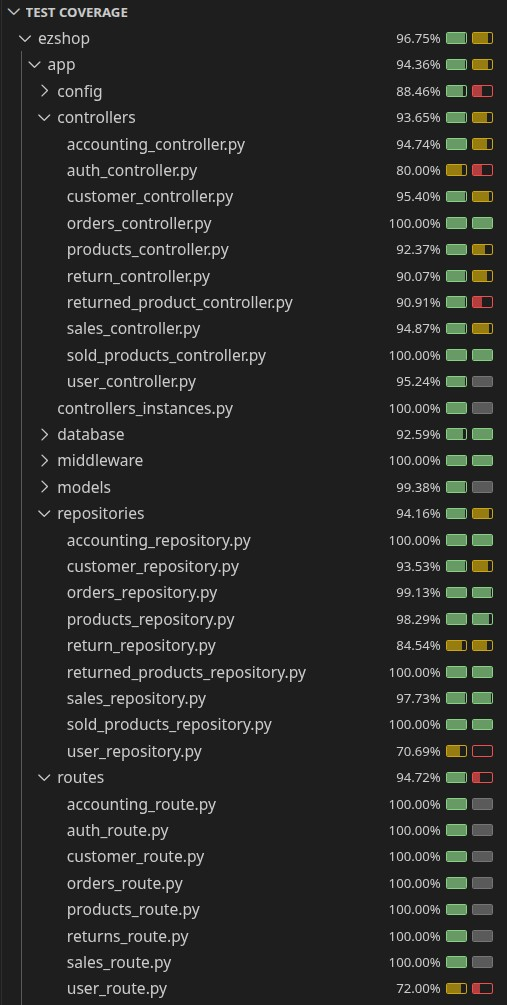
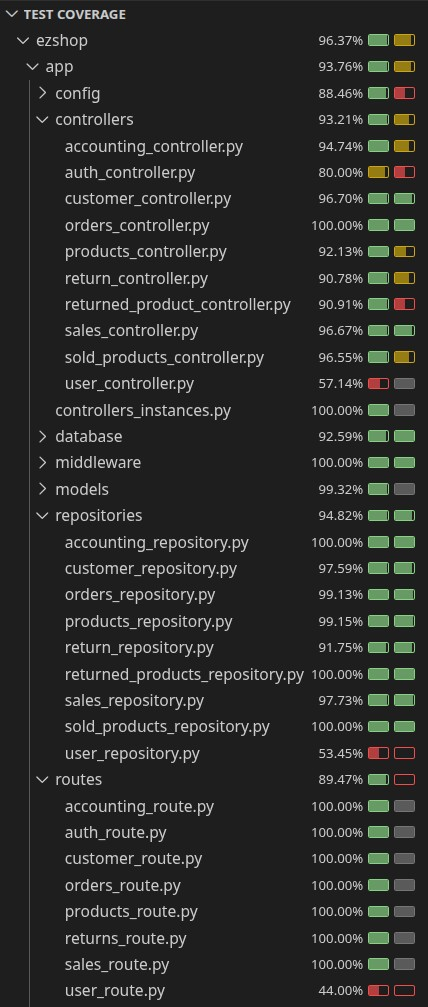
doc: updated estimation and test report document with instructions given by the teacher in issue#53

Changed region(s): [[0.0, 0.0, 0.6986, 1.0], [0.729, 0.0308, 0.972, 1.0]]

diff --git a/doc/TestReport.md b/doc/TestReport.md
@@ -516,95 +516,59 @@ Partitioning
 
 ## Coverage white box
 
+Note: this test session only executed tests written by the student group and not evaluation tests provided by the teacher. As such, coverage for classes not under our tasks is remarkably low (i.e. authentication and user management)
+
 ![test coverage](media/test-coverage.jpg)
 
 Detailed test execution is the following:
 
-- platform linux -- Python 3.13.11, pytest-9.0.2, pluggy-1.6.0
-- rootdir: /home/User/ezshop
+- platform linux -- Python 3.14.2, pytest-9.0.2, pluggy-1.6.0
+- rootdir: /home/user/ezshop
 - configfile: pytest.ini
-- plugins: cov-7.0.0, anyio-4.12.0, asyncio-1.3.0
+- plugins: cov-7.0.0, anyio-4.12.1, asyncio-1.3.0
 - asyncio: mode=Mode.AUTO, debug=False, asyncio_default_fixture_loop_scope=None, asyncio_default_test_loop_scope=function
-- collected 656 items
+- collected 646 items
 
-|Name                                                    |Stmts  | Miss | Cover |
-| :----------------------------------------------------: | :----:| :--: | :---: |
-|app/config/config.py                                    |   24  |    2 |  92%  |
-|app/controllers/accounting_controller.py                |   15  |    0 | 100%  |
-|app/controllers/auth_controller.py                      |   18  |    3 |  83%  |
-|app/controllers/customer_controller.py                  |   69  |    2 |  97%  |
-|app/controllers/orders_controller.py                    |   45  |    0 | 100%  |
-|app/controllers/products_controller.py                  |  103  |    0 | 100%  |
-|app/controllers/return_controller.py                    |  109  |    6 |  94%  |
-|app/controllers/returned_product_controller.py          |   40  |    2 |  95%  |
-|app/controllers/sales_controller.py                     |  147  |    5 |  97%  |
-|app/controllers/sold_products_controller.py             |   47  |    0 | 100%  |
-|app/controllers/user_controller.py                      |   21  |    1 |  95%  |
-|app/controllers_instances.py                            |   16  |    0 | 100%  |
-|app/database/database.py                                |   25  |    2 |  92%  |
-|app/middleware/auth_middleware.py                       |   11  |    0 | 100%  |
-|app/middleware/error_middleware.py                      |    7  |    0 | 100%  |
-|app/models/DAO/__init__.py                              |    0  |    0 | 100%  |
-|app/models/DAO/accounting_dao.py                        |    6  |    0 | 100%  |
-|app/models/DAO/card_dao.py                              |    8  |    0 | 100%  |
-|app/models/DAO/customer_dao.py                          |    9  |    0 | 100%  |
-|app/models/DAO/order_dao.py                             |   10  |    0 | 100%  |
-|app/models/DAO/product_dao.py                           |   11  |    0 | 100%  |
-|app/models/DAO/return_transaction_dao.py                |   12  |    0 | 100%  |
-|app/models/DAO/returned_product_dao.py                  |   11  |    0 | 100%  |
-|app/models/DAO/sale_dao.py                              |   12  |    0 | 100%  |
-|app/models/DAO/sold_product_dao.py                      |   12  |    0 | 100%  |
-|app/models/DAO/system_dao.py                            |    6  |    0 | 100%  |
-|app/models/DAO/user_dao.py                              |    9  |    0 | 100%  |
-|app/models/DTO/boolean_response_dto.py                  |    3  |    0 | 100%  |
-|app/models/DTO/card_dto.py                              |   14  |    0 | 100%  |
-|app/models/DTO/change_response_dto.py                   |    3  |    0 | 100%  |
-|app/models/DTO/customer_dto.py                          |   19  |    0 | 100%  |
-|app/models/DTO/error_dto.py                             |    9  |    0 | 100%  |
-|app/models/DTO/order_dto.py                             |   10  |    0 | 100%  |
-|app/models/DTO/points_response_dto.py                   |    3  |    0 | 100%  |
-|app/models/DTO/product_dto.py                           |   26  |    0 | 100%  |
-|app/models/DTO/return_transaction_dto.py                |   13  |    0 | 100%  |
-|app/models/DTO/returned_product_dto.py                  |    9  |    0 | 100%  |
-|app/models/DTO/sale_dto.py                              |   12  |    0 | 100%  |
-|app/models/DTO/sold_product_dto.py                      |    9  |    0 | 100%  |
-|app/models/DTO/token_dto.py                             |    3  |    0 | 100%  |
-|app/models/DTO/user_dto.py                              |   20  |    0 | 100%  |
-|app/models/errors/app_error.py                          |    5  |    0 | 100%  |
-|app/models/errors/bad_request.py                        |    5  |    0 | 100%  |
-|app/models/errors/balance_error.py                      |    6  |    0 | 100%  |
-|app/models/errors/conflict_error.py                     |    5  |    0 | 100%  |
-|app/models/errors/customer_card_error.py                |    5  |    0 | 100%  |
-|app/models/errors/insufficient_quantity_sold_error.py   |    5  |    2 |  60%  |
-|app/models/errors/insufficient_stock_error.py           |    5  |    0 | 100%  |
-|app/models/errors/invalid_state_error.py                |    5  |    0 | 100%  |
-|app/models/errors/notfound_error.py                     |    5  |    0 | 100%  |
-|app/models/errors/unauthorized_error.py                 |    5  |    0 | 100%  |
-|app/models/return_status_type.py                        |    5  |    0 | 100%  |
-|app/models/user_type.py                                 |    5  |    0 | 100%  |
-|app/repositories/accounting_repository.py               |   35  |    0 | 100%  |
-|app/repositories/customer_repository.py                 |  134  |    6 |  96%  |
-|app/repositories/orders_repository.py                   |   93  |    0 | 100%  |
-|app/repositories/products_repository.py                 |   95  |    0 | 100%  |
-|app/repositories/return_repository.py                   |   85  |   16 |  81%  |
-|app/repositories/returned_products_repository.py        |   56  |    0 | 100%  |
-|app/repositories/sales_repository.py                    |   72  |    1 |  99%  |
-|app/repositories/sold_products_repository.py            |   60  |    0 | 100%  |
-|app/repositories/user_repository.py                     |   56  |   18 |  68%  |
-|app/routes/accounting_route.py                          |   18  |    0 | 100%  |
-|app/routes/auth_route.py                                |   10  |    0 | 100%  |
-|app/routes/customer_route.py                            |   41  |    0 | 100%  |
-|app/routes/orders_route.py                              |   25  |    0 | 100%  |
-|app/routes/products_route.py                            |   38  |    0 | 100%  |
-|app/routes/returns_route.py                             |   38  |    0 | 100%  |
-|app/routes/sales_route.py                               |   45  |    0 | 100%  |
-|app/routes/user_route.py                                |   40  |    8 |  80%  |
-|app/services/auth_service.py                            |   36  |    6 |  83%  |
-|app/services/error_service.py                           |   10  |    0 | 100%  |
-|app/services/gtin_service.py                            |   16  |    0 | 100%  |
-|app/services/input_validator_service.py                 |   37  |    3 |  92%  |
-|app/services/mapper_service.py                          |   41  |    0 | 100%  |
-|app/utils.py                                            |   17  |    1 |  94%  |
-|TOTAL                                                   | 2115  |   84 |   96% |
+|Name                                                     |Stmts  | Miss  | Cover|
+|---------------------------------------------------------|-------|-------|------|
+| app/config/config.py                                    |   24  |    2  |  92% |
+| app/controllers/accounting_controller.py                |   15  |    0  | 100% |
+| app/controllers/auth_controller.py                      |   18  |    3  |  83% |
+| app/controllers/customer_controller.py                  |   71  |    1  |  99% |
+| app/controllers/orders_controller.py                    |   45  |    0  | 100% |
+| app/controllers/products_controller.py                  |  101  |    0  | 100% |
+| app/controllers/return_controller.py                    |  109  |    5  |  95% |
+| app/controllers/returned_product_controller.py          |   40  |    2  |  95% |
+| app/controllers/sales_controller.py                     |  158  |    2  |  99% |
+| app/controllers/sold_products_controller.py             |   54  |    1  |  98% |
+| app/controllers/user_controller.py                      |   21  |    9  |  57% |
+| app/controllers_instances.py                            |   16  |    0  | 100% |
+| app/database/database.py                                |   25  |    2  |  92% |
+| app/middleware/auth_middleware.py                       |   11  |    0  | 100% |
+| app/middleware/error_middleware.py                      |    7  |    0  | 100% |
+| app/repositories/accounting_repository.py               |   35  |    0  | 100% |
+| app/repositories/customer_repository.py                 |  132  |    1  |  99% |
+| app/repositories/orders_repository.py                   |   93  |    0  | 100% |
+| app/repositories/products_repository.py                 |   95  |    0  | 100% |
+| app/repositories/return_repository.py                   |   85  |    7  |  92% |
+| app/repositories/returned_products_repository.py        |   56  |    0  | 100% |
+| app/repositories/sales_repository.py                    |   72  |    1  |  99% |
+| app/repositories/sold_products_repository.py            |   70  |    0  | 100% |
+| app/repositories/user_repository.py                     |   56  |   25  |  55% |
+| app/routes/accounting_route.py                          |   18  |    0  | 100% |
+| app/routes/auth_route.py                                |   10  |    0  | 100% |
+| app/routes/customer_route.py                            |   41  |    0  | 100% |
+| app/routes/orders_route.py                              |   25  |    0  | 100% |
+| app/routes/products_route.py                            |   38  |    0  | 100% |
+| app/routes/returns_route.py                             |   39  |    0  | 100% |
+| app/routes/sales_route.py                               |   45  |    0  | 100% |
+| app/routes/user_route.py                                |   40  |   18  |  55% |
+| app/services/auth_service.py                            |   36  |    6  |  83% |
+| app/services/error_service.py                           |   10  |    0  | 100% |
+| app/services/gtin_service.py                            |   16  |    0  | 100% |
+| app/services/input_validator_service.py                 |   37  |    3  |  92% |
+| app/services/mapper_service.py                          |   41  |    1  |  98% |
+| app/utils.py                                            |   17  |    1  |  94% |           
+| TOTAL                                                   |  2114 |   92  |  96% |
 
-=== 656 passed in 10.00s ===
+=== 646 passed in 6.45s ===

diff --git a/doc/EstimationPart2.md b/doc/EstimationPart2.md
@@ -33,10 +33,10 @@ productivity = ((LOC of production code)+ (LOC of test code)) / effort
 |                                        | Estimated (end of task 1)               | Actual (jan 18, end of task 3)|
 | ---------------------------------------|---------------------------------------- | ------------------------------|
 | production code size                   | 6050                                    |              3381             |
-| test code size                         | n/a                                     |             13054             |
-| total size                             | 6050                                    |             16435             |
+| test code size                         | n/a                                     |              8861             |
+| total size                             | 6050                                    |             12242             |
 | effort                                 | 605                                     |               422             |
-| productivity                           | 10 loc / hour                           |          39 loc / hour        |
+| productivity                           | 10 loc / hour                           |          29 loc / hour        |
 
 
 Report, as estimate of effort, the value obtained via activity decomposition technique.  The comparison is meaningful for productivity, since the stimates for size and effort were not based on the Official requirements.
@@ -45,5 +45,5 @@ Report, as estimate of effort, the value obtained via activity decomposition tec
 | --------------------------------------------- | ------------------------------- | ------------- |
 | Requirement analysis and definition           | 71.5                            |      n/a      |
 | Backend Development                           | 154                             | 22 loc / hour |
-| Testing                                       | 174                             | 75 loc / hour |
-| Total                                         | 399.5                           | 39 loc / hour |
+| Testing                                       | 174                             | 51 loc / hour |
+| Total                                         | 399.5                           | 29 loc / hour |
